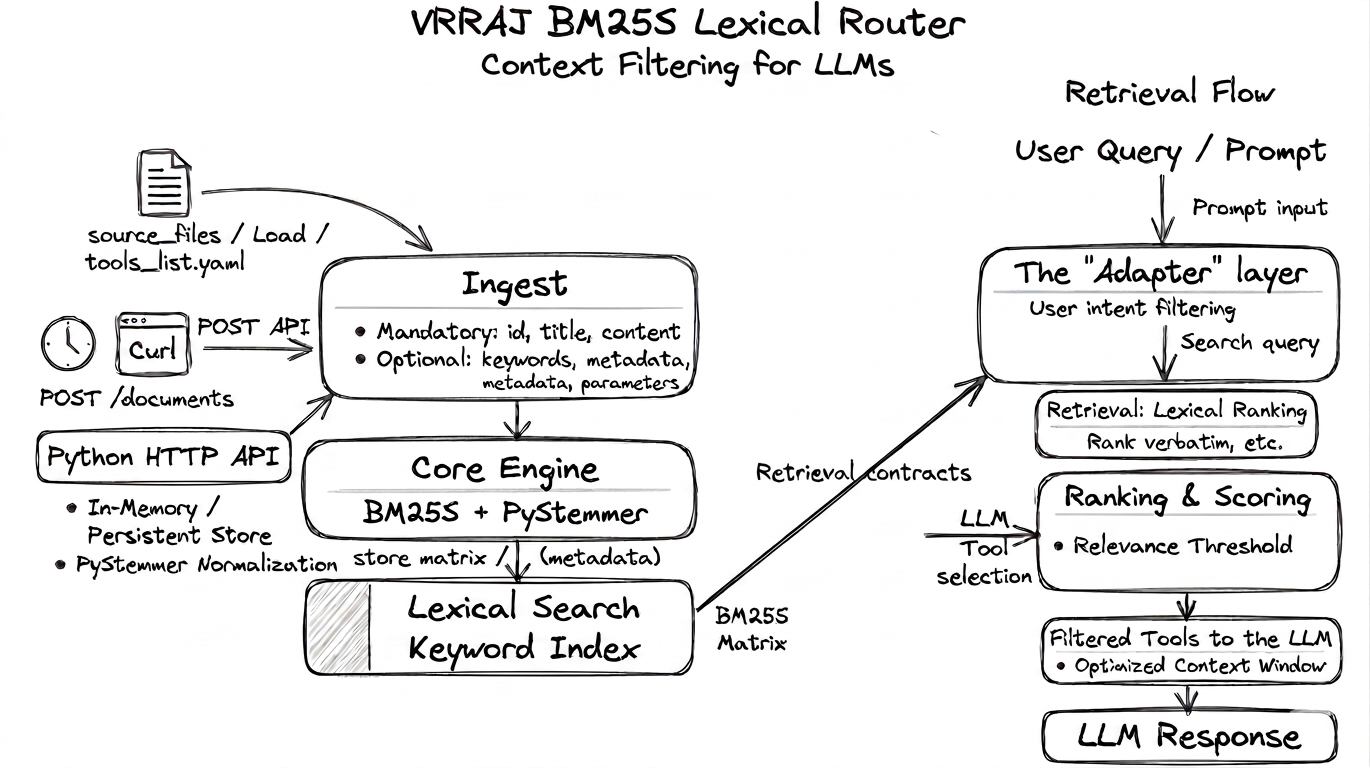
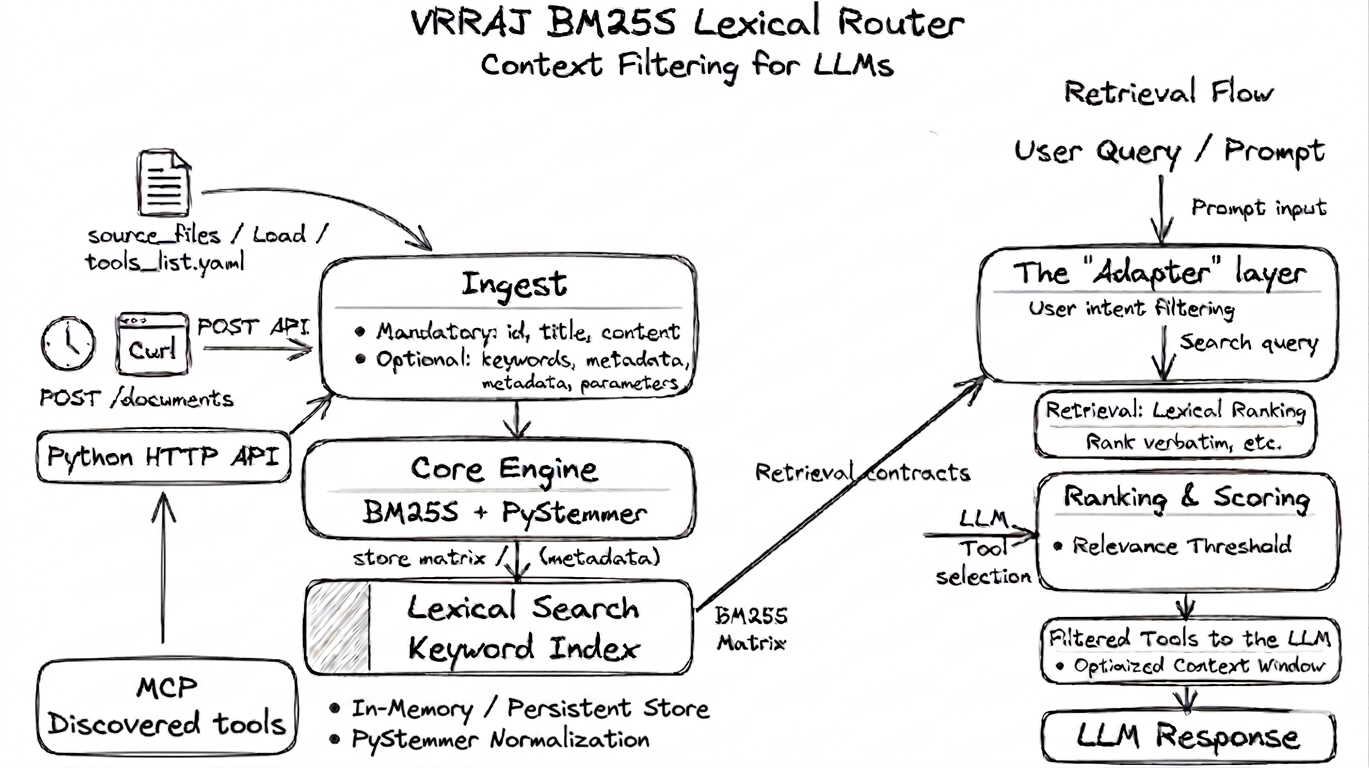
Update README with improved mental model diagrams

diff --git a/README.md b/README.md
@@ -152,18 +152,24 @@ BM25S can retrieve the most relevant tools before the LLM sees the tool list. Th
 
 With MCP, servers can standardize **tool discovery**, but tool discovery is not the same as tool selection. The MCP client, host application, or orchestrator still decides which discovered tools should be passed to the LLM. BM25S acts as the relevance layer between discovery and prompt assembly.
 
-```text
-User Query → BM25S Tool Retrieval → Top Matching Tools → LLM Tool Selection → Tool Execution
-```
-
-With MCP:
+Mental model:
 
 ```text
-MCP Tool Discovery → Client-Side BM25S Filtering → Relevant Tools → LLM Tool Selection → Tool Execution
+Discover / Load → Inject → Index → Filter → Focused LLM Context
 ```
+
+In practice:
+
+```text
+YAML Tool Registry + MCP-Discovered Tools + Internal Tool Definitions
+→ Inject into BM25S Index (REST or in-process)
+→ Query-Time Tool Filtering
+→ Focused LLM Context
+```
+
+Tools can come from YAML, MCP discovery, or internal registries. The client or orchestration layer transforms these into BM25S documents and injects them into a unified in-memory index. At query time, BM25S filters the relevant subset before passing tools to the LLM.
 
 Hybrid registry pattern:
-
 
 ```text
 YAML Tool Registry + MCP-Discovered Tools → Dynamic BM25S Index → Query-Time Tool Filtering
